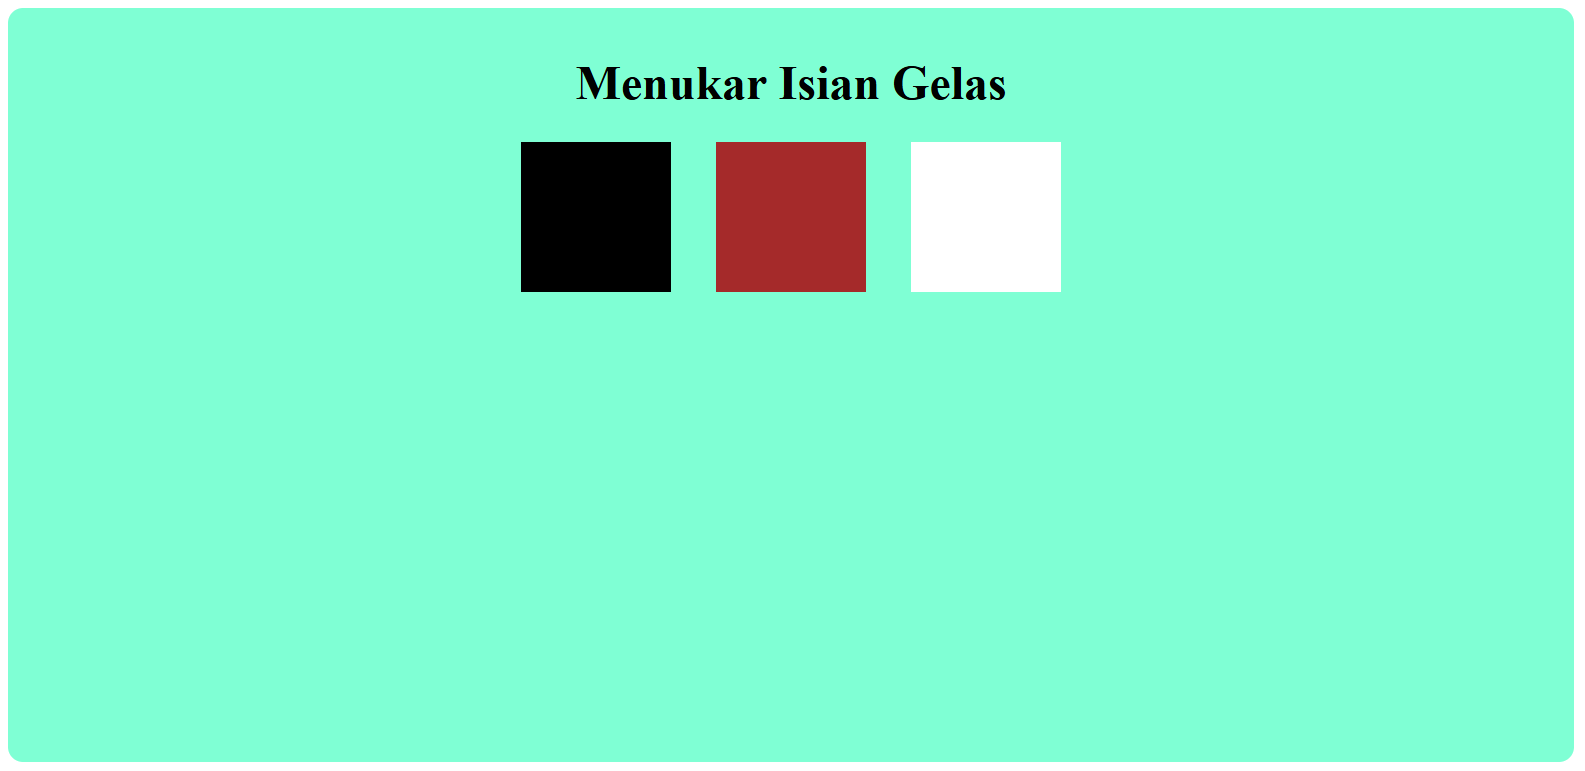
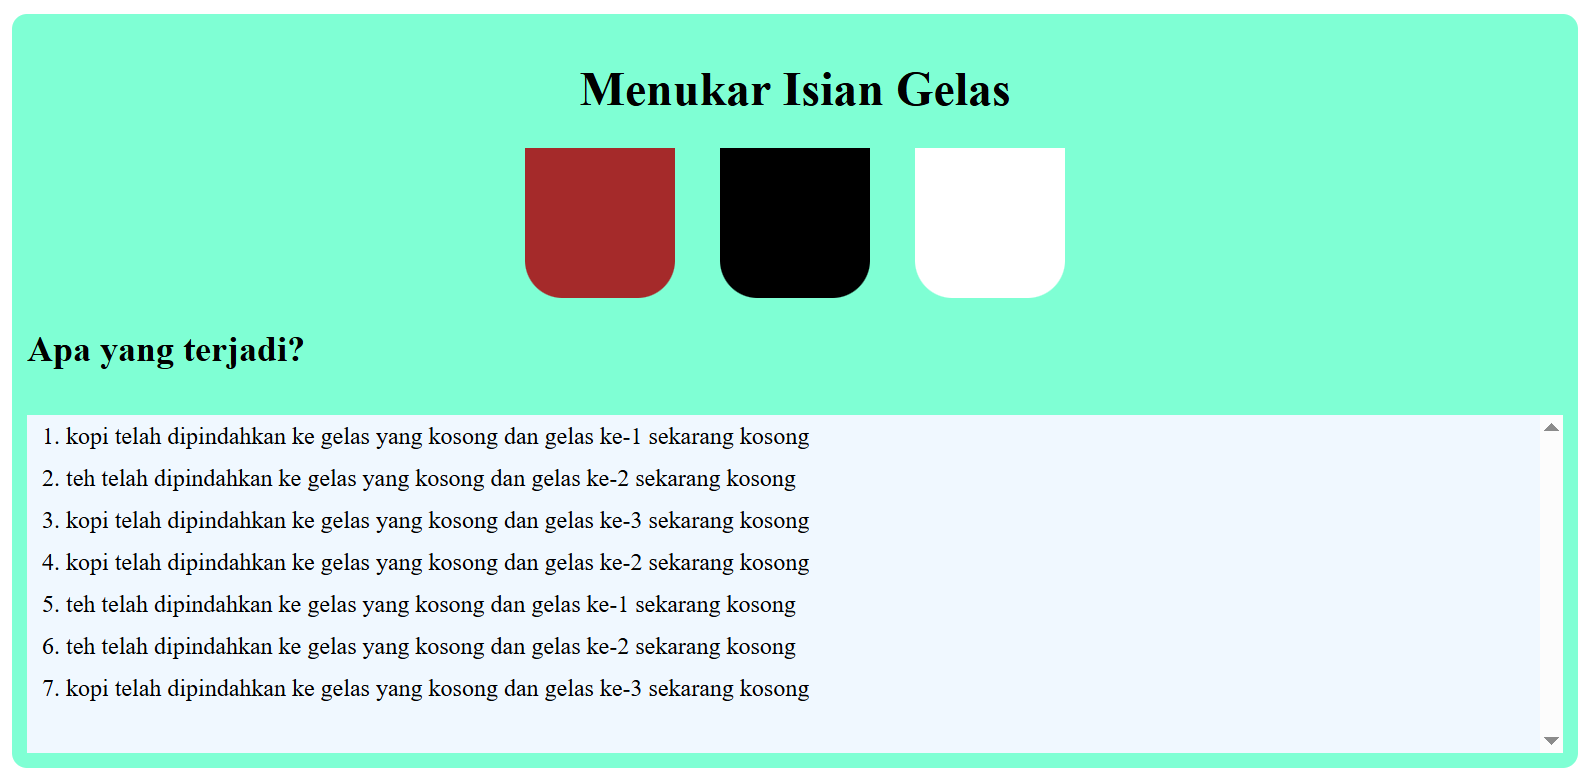
feat: add the order of event section

diff --git a/index.html b/index.html
@@ -22,11 +22,6 @@
             width: 80%;
             height: 80%;
         }
-        button {
-            width: fit-content;
-            height: fit-content;
-            display: none;
-        }
         body>div {
             display: flex;
             flex-direction: row;
@@ -39,6 +34,8 @@
             width: 100px;
             height: 100px;
             border: none;
+            border-bottom-left-radius: 25%;
+            border-bottom-right-radius: 25%;
         }
         span {
             margin: auto;
@@ -52,15 +49,34 @@
         div>button.kosong {
             background-color: white;
         }
+        body>div:nth-child(4) {
+            margin-top: 10px;
+            width: 100%;
+            height: 60%;
+            overflow-y: scroll;
+            display: flex;
+            flex-direction: column;
+            justify-content: flex-start;
+            align-items: flex-start;
+            gap: 10px;
+            background-color: aliceblue;
+            box-sizing: border-box;
+            padding: 5px 10px;
+        }
+        h2 {
+            align-self: flex-start;
+        }
     </style>
 </head>
 <body>
     <h1>Menukar Isian Gelas</h1>
-    <button type="button" id="addGlass">Tambah Gelas</button>
     <div>
         <button class="kopi" id="glass1"></button>
         <button class="teh" id="glass2"></button>
         <button class="kosong" id="glass3"></button>
+    </div>
+    <h2>Apa yang terjadi?</h2>
+    <div>
     </div>
     <script>
         const glasses = [
@@ -69,6 +85,17 @@
             document.getElementById('glass3')
         ]
         let fill = ''
+        let order = 0;
+
+        function typeText(i, fill) {
+            if (fill !== 'kosong') {
+                order++;
+                const newLine = document.createElement('div')
+                newLine.innerText = `${order}. ${fill} telah dipindahkan ke gelas yang kosong dan gelas ke-${i+1} sekarang kosong`
+                document.querySelector('body>div:nth-child(4)').append(newLine)
+            }
+        }
+
         function change(i) {
             fill = glasses[i].getAttribute('class')
             glasses.forEach((item) => {
@@ -77,6 +104,7 @@
                 }
             })
             glasses[i].setAttribute('class','kosong')
+            typeText(i, fill)
         }
         document.querySelector('button#glass1').addEventListener('click',function() {change(0);})
         document.querySelector('button#glass2').addEventListener('click',function() {change(1);})
